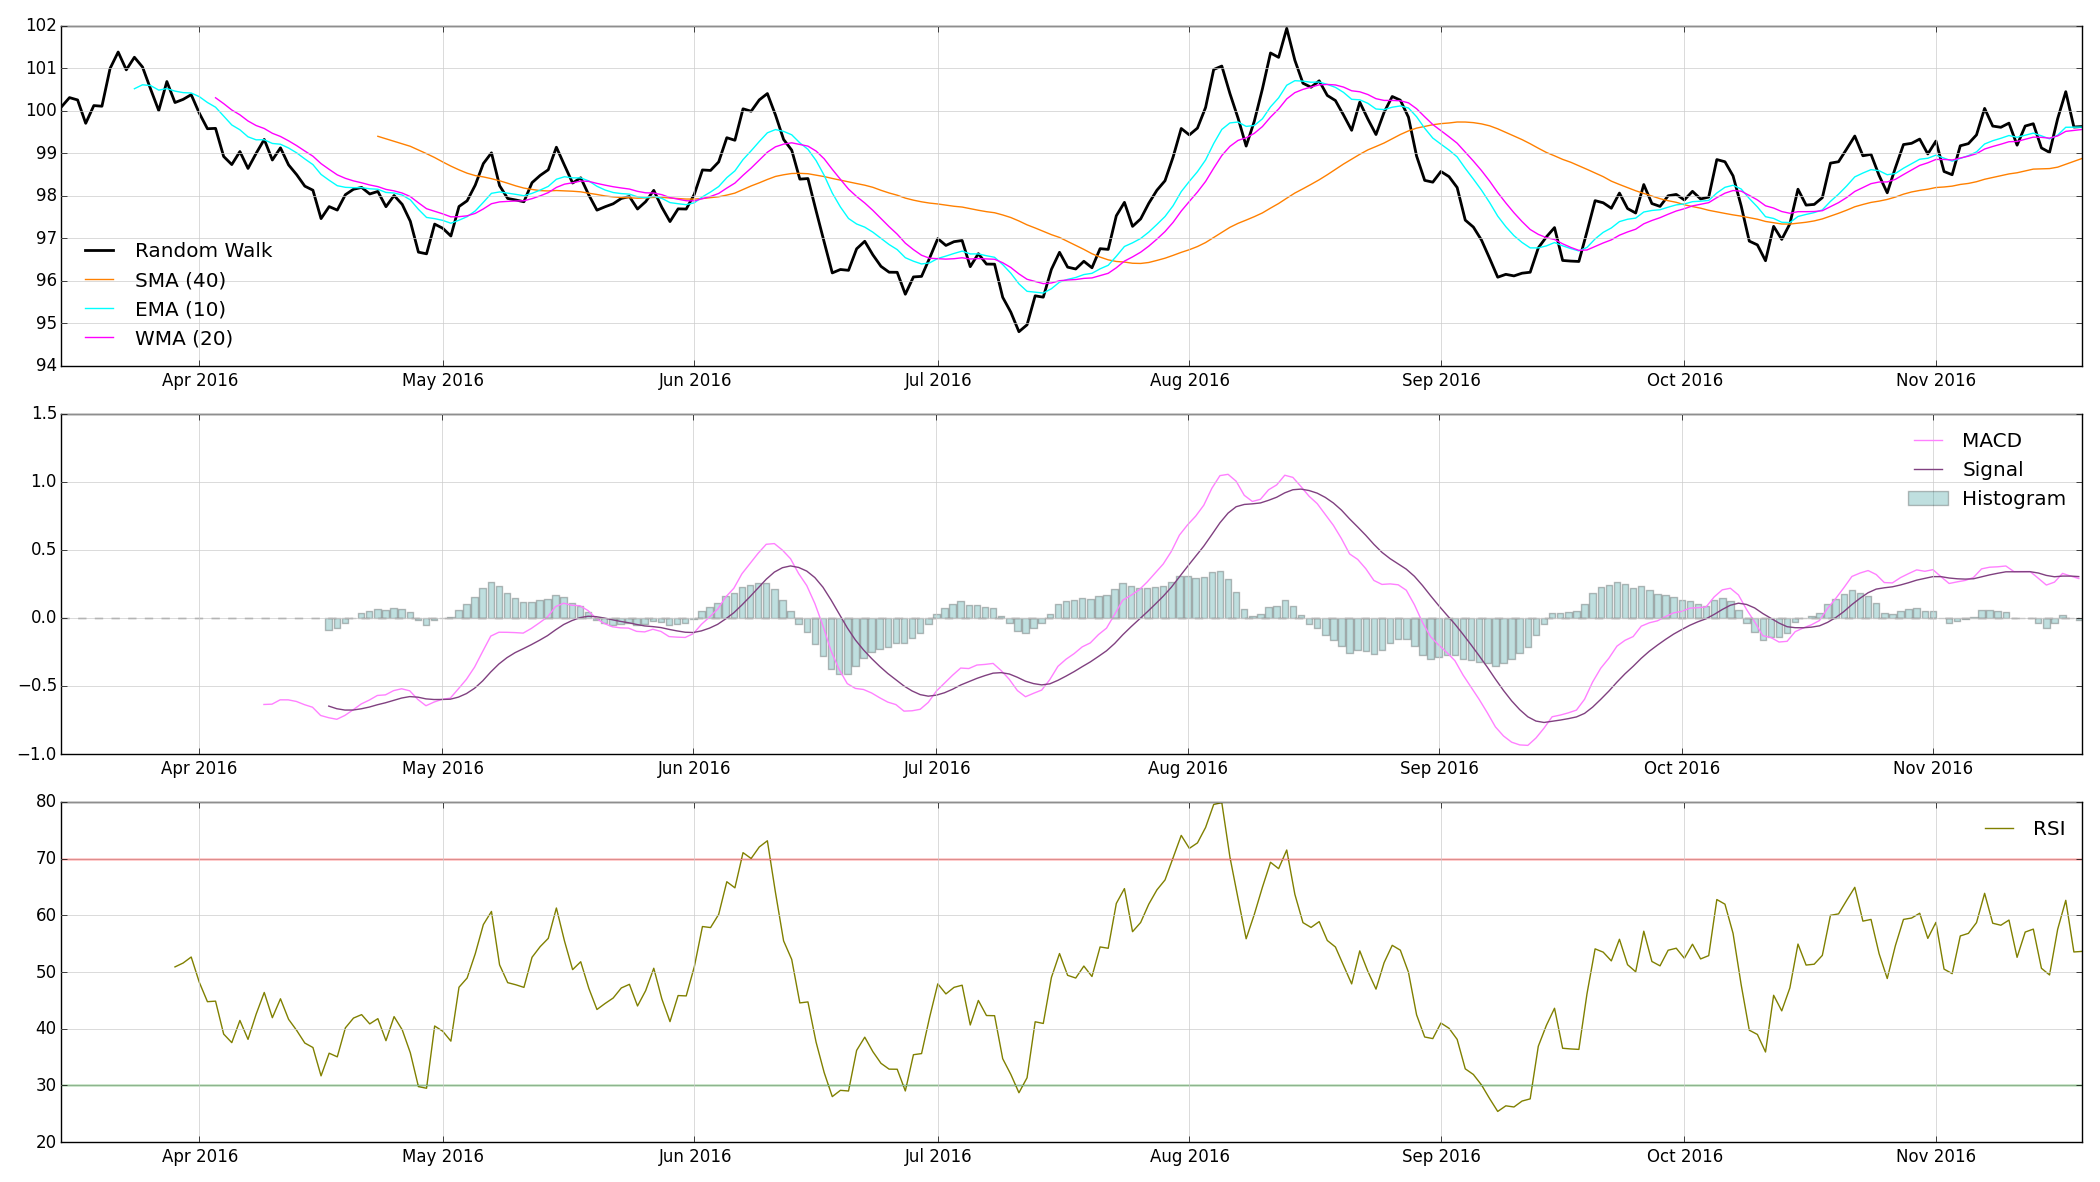
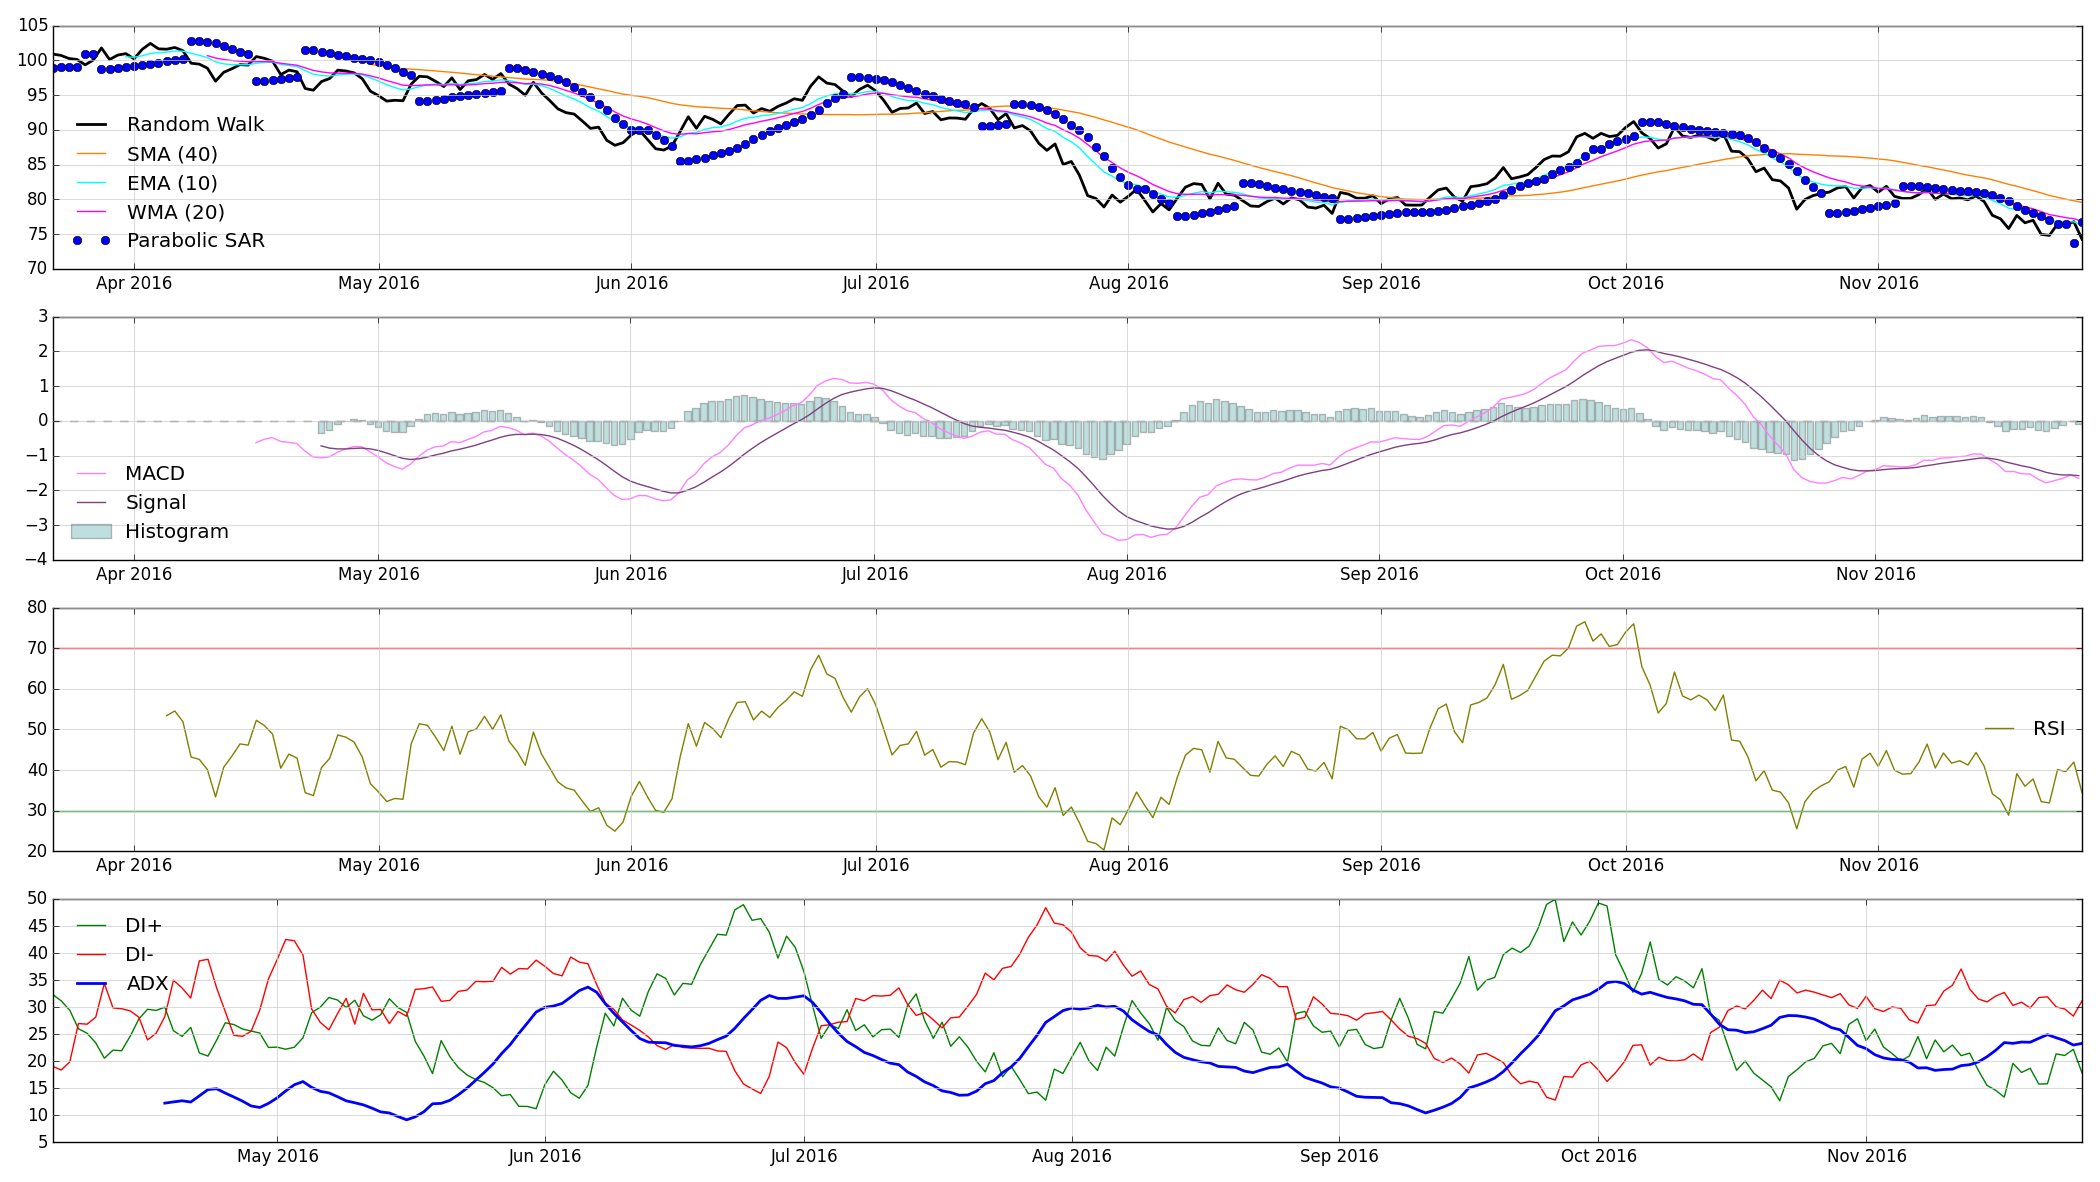
add SAR, removed DMX from adx output, updated example

diff --git a/README.md b/README.md
@@ -20,6 +20,7 @@ Indicators is a Julia package offering efficient implementations of many technic
 - MACD (moving average convergence-divergence)
 - RSI (relative strength index)
 - ADX (average directional index)
+- Parabolic SAR (stop and reverse)
 
 ### Volatility Indicators
 - Bollinger Bands
@@ -32,6 +33,8 @@ Indicators is a Julia package offering efficient implementations of many technic
 - Rolling/running variance
 - Rolling/running covariance
 - Rolling/running correlation
+- Rolling/running maximum
+- Rolling/running minimum
 
 
 ## Todo
@@ -39,7 +42,7 @@ Indicators is a Julia package offering efficient implementations of many technic
 - VWMA (volume-weighted moving average)
 - ~~DEMA (double exponential moving average)~~
 - ~~TEMA (tripe exponential moving average)~~
-- Parabolic SAR
+- ~~Parabolic SAR~~
 - Williams %R
 - CCI (commodity channel index)
 - KST (know sure thing)
